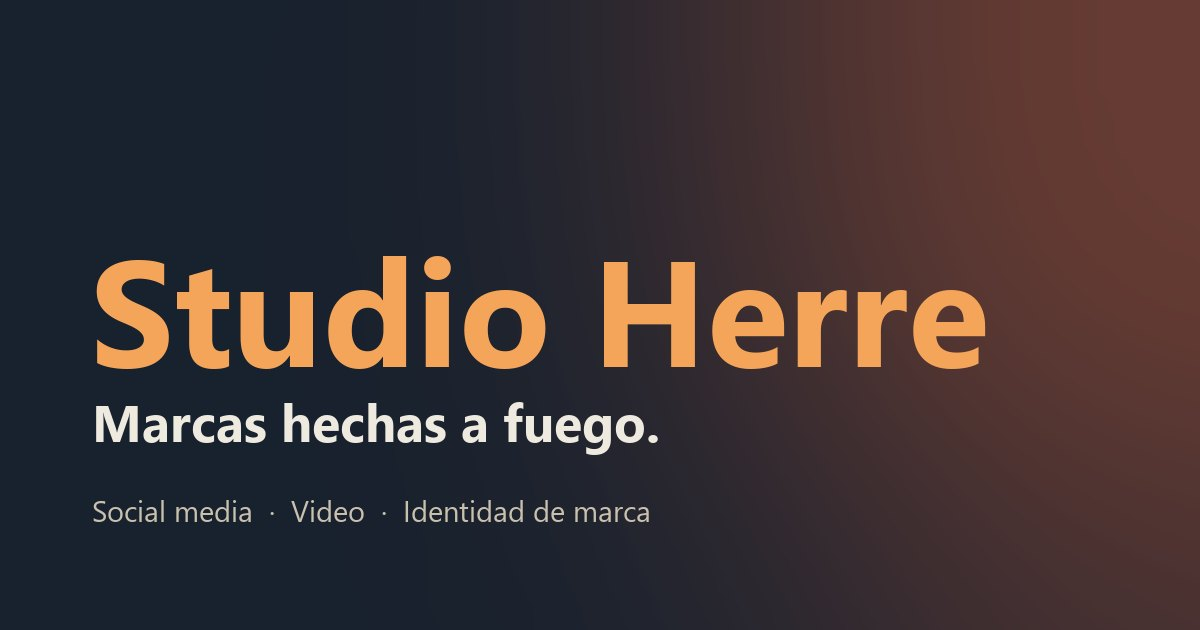
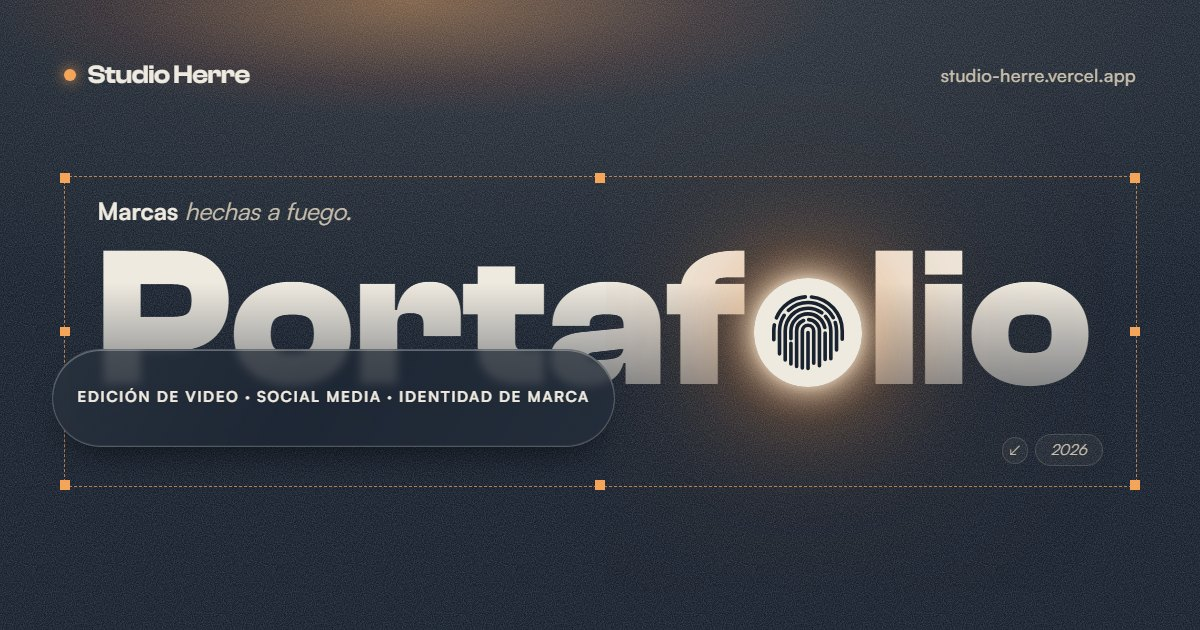
Imagen para compartir con la portada "Portafolio", Edición de video primero e ícono de Google Flow más chico

diff --git a/tools/og-portada.html b/tools/og-portada.html
@@ -1,0 +1,46 @@
+<!doctype html>
+<html lang="es">
+<head>
+<meta charset="utf-8">
+<!-- Imagen para compartir (media/site/og.jpg, 1200x630). Reutiliza la portada del inicio.
+     Se regenera con Edge headless; ver README, sección "Imagen para compartir". -->
+<link rel="stylesheet" href="https://api.fontshare.com/v2/css?f[]=clash-display@300,500,600,700&f[]=satoshi@400,500,700&display=swap">
+<link rel="stylesheet" href="../assets/css/styles.css">
+<style>
+  html, body { width: 1200px; height: 630px; overflow: hidden; }
+  body::before, body::after { position: absolute; }
+  /* sin animaciones: todo en su estado final, con la huella encendida */
+  *, *::before, *::after { animation-delay: -20s !important; animation-iteration-count: 1 !important; }
+  .portada__huella::before { animation: none !important; opacity: 1; }
+  .portada .hero__guia { display: none; }
+  .og { box-sizing: border-box; width: 1200px; height: 630px; padding: 54px 64px 0; display: flex; flex-direction: column; }
+  .og__marca { display: flex; align-items: center; gap: 12px; font-family: var(--titulos); font-weight: 600; font-size: 26px; letter-spacing: -0.01em; color: var(--texto); }
+  .og__marca i { width: 12px; height: 12px; border-radius: 50%; background: var(--acento); box-shadow: 0 0 14px var(--acento); }
+  .og__marca span { margin-left: auto; font-family: var(--sans); font-weight: 500; font-size: 18px; color: var(--texto-2); letter-spacing: 0.02em; }
+  .og .portada { padding-top: 80px; }
+  .og .portada__rol { font-size: 24px; }
+  .og .portada__burbuja span { font-size: 15px; }
+  .og .portada .hero__pastilla { font-size: 15px; }
+</style>
+</head>
+<body>
+<div class="og">
+  <p class="og__marca"><i></i>Studio Herre<span>studio-herre.vercel.app</span></p>
+  <section class="portada" aria-label="Portafolio 2026">
+  <div class="hero__marco">
+    <p class="portada__rol"><b>Marcas</b> <em>hechas a fuego.</em></p>
+    <div class="portada__caja" aria-hidden="true">
+      <p class="portada__titulo">Portaf<span class="portada__huella"><svg viewBox="2 1 20 21" fill="none" stroke="currentColor" stroke-width="0.95" stroke-linecap="round"><path pathLength="100" stroke-dasharray="100" d="M10.50 20.71V11a1.5 1.5 0 0 1 3.0 0V19.81"/><path pathLength="100" stroke-dasharray="46 5 49" d="M9.00 20.33V11a3.0 3.0 0 0 1 6.0 0V20.33"/><path pathLength="100" stroke-dasharray="18 4 50 5 23" d="M7.50 19.67V11a4.5 4.5 0 0 1 9.0 0V18.77"/><path pathLength="100" stroke-dasharray="62 4 34" d="M6.00 18.64V11a6.0 6.0 0 0 1 12.0 0V18.64"/><path pathLength="100" stroke-dasharray="30 5 40 4 21" d="M4.50 17.00V11a7.5 7.5 0 0 1 15.0 0V16.10"/><path pathLength="100" stroke-dasharray="12 6 30 5 47" d="M3.00 13.31V11a9.0 9.0 0 0 1 18.0 0V13.31"/><path d="M12 11.4V20.83"/></svg></span>lio</p>
+      <span class="portada__burbuja"><span>Edición de video · Social media · Identidad de marca</span></span>
+    </div>
+    <p class="hero__pastilla"><span aria-hidden="true">↙</span><em>2026</em></p>
+    <i></i><i></i><i></i><i></i><i></i><i></i><i></i><i></i>
+    <span class="hero__guia"><svg class="hero__pluma" viewBox="18 13 28 47" aria-hidden="true">
+      <defs><linearGradient id="pluma" x1="0" y1="0" x2="1" y2="1"><stop offset="0" stop-color="var(--acento)"/><stop offset="1" stop-color="var(--acento-2)"/></linearGradient></defs>
+      <path fill="url(#pluma)" fill-rule="evenodd" d="M32 15l12 20-4.5 15h-15L20 35zm-1 5v11.2a3.6 3.6 0 1 0 2 0V20zM24.5 53h15v5h-15z"/>
+    </svg></span>
+  </div>
+</section>
+</div>
+</body>
+</html>

diff --git a/build.js b/build.js
@@ -106,7 +106,7 @@ function waLink(site) {
 function layout(site, { title, description, urlPath, image, body, active, jsonld, type = 'website', extraHead = '' }) {
   const fullTitle = urlPath === '/' ? title : `${title} — ${site.nombre}`;
   const canonical = site.url + urlPath;
-  const ogImage = site.url + (image || '/media/site/og.jpg');
+  const ogImage = site.url + (image || '/media/site/og.jpg?v=2');
   const nav = [
     ['/', 'Inicio', 'inicio'],
     ['/trabajos/', 'Trabajos', 'trabajos'],

diff --git a/README.md b/README.md
@@ -118,3 +118,7 @@ Vercel publica solo en un minuto aprox.
 4. Listo. Desde ahí, cada `git push` a `main` actualiza el sitio.
 
 Dominio propio: en Vercel, **Settings → Domains**. Si lo agregas, escribe la dirección en `"url"` de `data/site.json` (ej: `"https://nacho.cl"`) para que los links compartidos usen ese dominio.
+
+## Imagen para compartir
+
+`media/site/og.jpg` (1200×630) es la que muestran WhatsApp y las redes al pegar el enlace. Sale de `tools/og-portada.html`, que reutiliza la portada del inicio con los estilos del sitio. Para rehacerla: `node build.js`, copiar la sección `portada` de `dist/index.html` a ese archivo si cambió, capturarla con Edge headless (`msedge --headless=new --window-size=1200,630 --force-device-scale-factor=1 --virtual-time-budget=6000 --screenshot=og.png file:///.../tools/og-portada.html`), guardarla como `og.jpg` y subir el `?v=N` de `og.jpg` en `build.js` para que las redes la vuelvan a leer.
